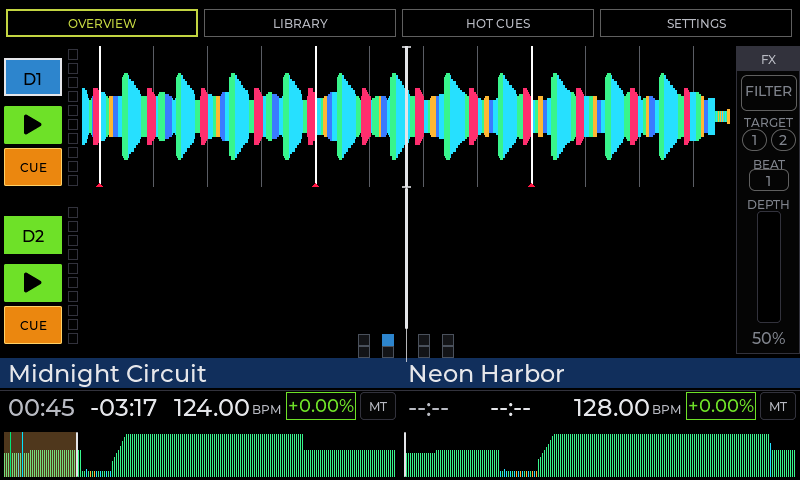
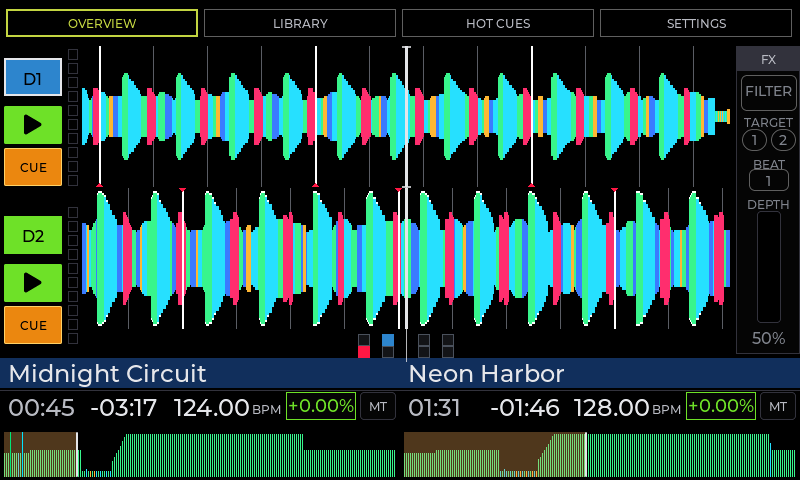
ui: fix dual deck waveform rendering in overview simulator & update screenshots

Changed region(s): [[0.0938, 0.4062, 0.9375, 0.6875], [0.5, 0.8125, 0.75, 1.0], [0.4375, 0.7188, 0.4688, 0.75]]

diff --git a/firmware/main-deck-p4/components/ui/ui_library.c b/firmware/main-deck-p4/components/ui/ui_library.c
@@ -195,6 +195,12 @@ static uint8_t s_library_load_request_deck = CTRL_DECK_1;
 
 static uint32_t s_deck_loaded_track_key[DECK_CORE_DECK_COUNT] = {0, 0};
 static bool s_deck_loaded_track_valid[DECK_CORE_DECK_COUNT] = {false, false};
+#ifdef WIN32
+static uint8_t s_deck_loaded_waveform_low[DECK_CORE_DECK_COUNT][400];
+static bool s_deck_loaded_has_waveform[DECK_CORE_DECK_COUNT] = {false, false};
+static uint32_t s_deck_loaded_duration_ms[DECK_CORE_DECK_COUNT] = {0, 0};
+static uint16_t s_deck_loaded_bpm[DECK_CORE_DECK_COUNT] = {0, 0};
+#endif
 
 static const anlz_metadata_t *ui_library_clone_loaded_anlz(anlz_metadata_t *snapshot)
 {
@@ -546,6 +552,14 @@ static void ui_library_apply_loaded_track(uint8_t deck,
                                           const anlz_metadata_t *meta)
 {
     deck = ui_library_deck_index(deck);
+#ifdef WIN32
+    s_deck_loaded_has_waveform[deck] = has_waveform;
+    s_deck_loaded_duration_ms[deck] = duration_ms;
+    s_deck_loaded_bpm[deck] = bpm;
+    if (waveform_low) {
+        memcpy(s_deck_loaded_waveform_low[deck], waveform_low, 400);
+    }
+#endif
     if (s_library_config.actions.set_deck_track_info) {
         s_library_config.actions.set_deck_track_info(deck, title, artist, bpm, duration_ms);
     }
@@ -572,6 +586,9 @@ static void ui_library_apply_loaded_track(uint8_t deck,
 static void ui_library_apply_empty_track(uint8_t deck)
 {
     deck = ui_library_deck_index(deck);
+#ifdef WIN32
+    s_deck_loaded_has_waveform[deck] = false;
+#endif
 #ifndef WIN32
     s_loaded_media_valid[deck] = false;
     memset(&s_loaded_media[deck], 0, sizeof(s_loaded_media[deck]));
@@ -1793,22 +1810,22 @@ void ui_library_update(const ui_frame_context_t *ctx)
 
 uint32_t ui_library_deck_duration_ms(uint8_t deck, uint32_t fallback_duration_ms)
 {
-#ifndef WIN32
     uint8_t idx = ui_library_deck_index(deck);
+#ifndef WIN32
     if (s_loaded_media_valid[idx]) return s_loaded_media[idx].duration_ms;
 #else
-    (void)deck;
+    if (s_deck_loaded_track_valid[idx] && s_deck_loaded_duration_ms[idx] > 0) return s_deck_loaded_duration_ms[idx];
 #endif
     return fallback_duration_ms;
 }
 
 uint16_t ui_library_deck_bpm(uint8_t deck, uint16_t fallback_bpm)
 {
-#ifndef WIN32
     uint8_t idx = ui_library_deck_index(deck);
+#ifndef WIN32
     if (s_loaded_media_valid[idx] && s_loaded_media[idx].bpm > 0) return s_loaded_media[idx].bpm;
 #else
-    (void)deck;
+    if (s_deck_loaded_track_valid[idx] && s_deck_loaded_bpm[idx] > 0) return s_deck_loaded_bpm[idx];
 #endif
     return fallback_bpm;
 }
@@ -1817,6 +1834,7 @@ bool ui_library_get_loaded_waveform(uint8_t deck,
                                     const uint8_t **waveform_low,
                                     bool *has_waveform)
 {
+    uint8_t idx = ui_library_deck_index(deck);
     if (waveform_low) {
         *waveform_low = NULL;
     }
@@ -1824,7 +1842,6 @@ bool ui_library_get_loaded_waveform(uint8_t deck,
         *has_waveform = false;
     }
 #ifndef WIN32
-    uint8_t idx = ui_library_deck_index(deck);
     if (!s_loaded_media_valid[idx]) {
         return false;
     }
@@ -1836,8 +1853,16 @@ bool ui_library_get_loaded_waveform(uint8_t deck,
     }
     return true;
 #else
-    (void)deck;
-    return false;
+    if (idx >= DECK_CORE_DECK_COUNT || !s_deck_loaded_track_valid[idx] || !s_deck_loaded_has_waveform[idx]) {
+        return false;
+    }
+    if (waveform_low) {
+        *waveform_low = s_deck_loaded_waveform_low[idx];
+    }
+    if (has_waveform) {
+        *has_waveform = s_deck_loaded_has_waveform[idx];
+    }
+    return true;
 #endif
 }
 
